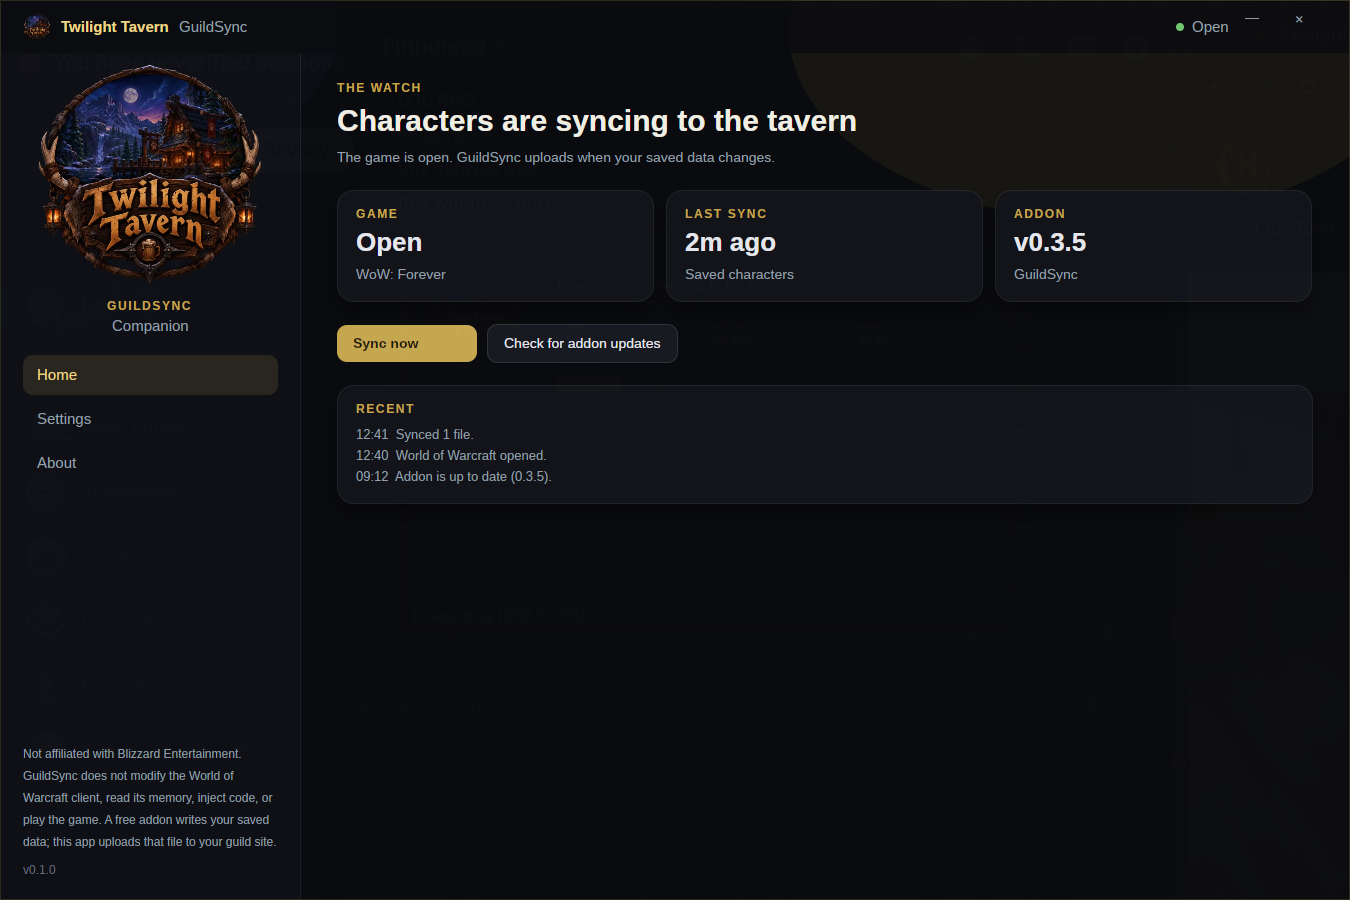
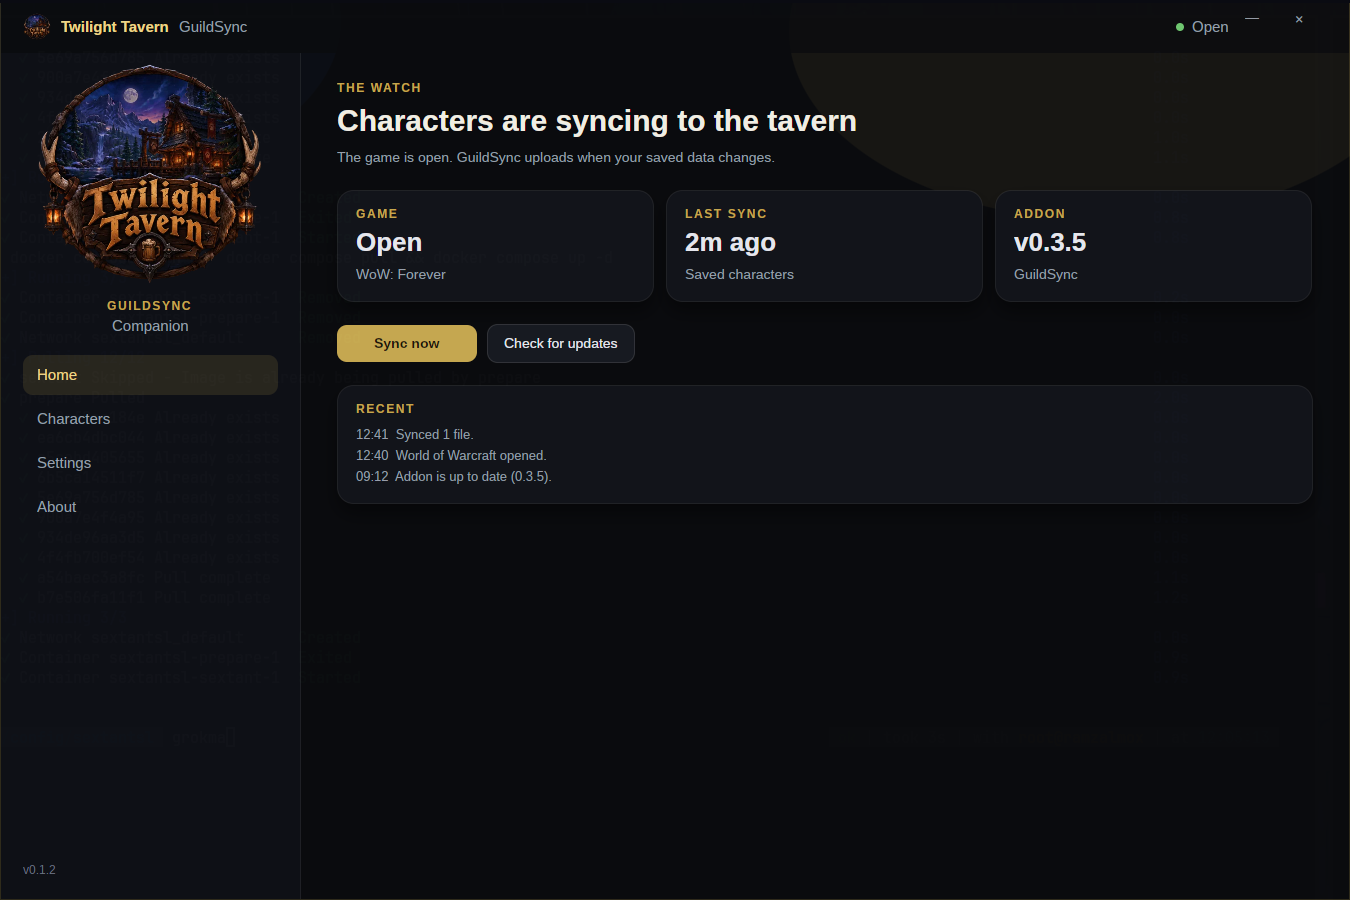
Open character pages from the list

diff --git a/src/GuildSync.Companion/ViewModels/ShellViewModel.cs b/src/GuildSync.Companion/ViewModels/ShellViewModel.cs
@@ -15,7 +15,7 @@ public partial class ShellViewModel : ObservableObject
     private int _toastGen;
     private List<RosterCharacter> _owned = [];
     private string _ownedStatus = "";
-    private int? _previewMainId = 1;
+    private int? _previewMainId = 1560;
 
     public ShellViewModel(CompanionHost host, bool showOnLaunch)
     {
@@ -465,6 +465,13 @@ public partial class ShellViewModel : ObservableObject
     [RelayCommand]
     private void OpenSite() => Dialogs?.OpenUrl(AppConstants.ServerBase);
 
+    private void OpenCharacter(int id)
+    {
+        if (id <= 0)
+            return;
+        Dialogs?.OpenUrl(AppConstants.CharacterPageUrl(id));
+    }
+
     [RelayCommand]
     private void Quit()
     {
@@ -661,9 +668,9 @@ public partial class ShellViewModel : ObservableObject
         var now = DateTimeOffset.UtcNow.ToUnixTimeSeconds();
         _owned =
         [
-            new RosterCharacter("Aldric Hollowbrook", "Paladin", "Retribution", "Dwarf", 56, 49.7, now - 2 * 86400, Id: 1, Player: "You", Dkp: 42),
-            new RosterCharacter("Balgor Steelclaw", "Mage", "Fire", "Dwarf", 54, 42.9, now - 2 * 86400, Id: 2, Player: "You", Dkp: 0),
-            new RosterCharacter("Rukh Jadefire", "Rogue", "Combat", "Orc", 36, 39.4, now - 3600, Id: 3, Player: "You", Dkp: -3),
+            new RosterCharacter("Aldric Hollowbrook", "Paladin", "Retribution", "Dwarf", 56, 49.7, now - 2 * 86400, Id: 1560, Player: "You", Dkp: 42),
+            new RosterCharacter("Balgor Steelclaw", "Mage", "Fire", "Dwarf", 54, 42.9, now - 2 * 86400, Id: 1559, Player: "You", Dkp: 0),
+            new RosterCharacter("Rukh Jadefire", "Rogue", "Combat", "Orc", 36, 39.4, now - 3600, Id: 1562, Player: "You", Dkp: -3),
         ];
         _ownedStatus = "3 of yours, highest level first. Pin the one you main.";
         ShowOwned();
@@ -699,6 +706,7 @@ public partial class ShellViewModel : ObservableObject
                 Dkp = RosterList.FormatDkp(character.Dkp),
                 Seen = RosterList.Ago(character.LastSeenUnix, now),
                 IsMain = main is int pinned && pinned == id,
+                OpenCommand = new RelayCommand(() => OpenCharacter(id)),
                 PinCommand = new RelayCommand(() => PinCharacter(id)),
                 NameBrush = CharacterRow.BrushFor(character.ClassName),
                 DkpBrush = CharacterRow.DkpColor(character.Dkp),

diff --git a/src/GuildSync.Companion/ViewModels/CharacterRow.cs b/src/GuildSync.Companion/ViewModels/CharacterRow.cs
@@ -13,6 +13,7 @@ public sealed class CharacterRow
     public required string Dkp { get; init; }
     public required string Seen { get; init; }
     public required bool IsMain { get; init; }
+    public required ICommand OpenCommand { get; init; }
     public required ICommand PinCommand { get; init; }
     public required IBrush NameBrush { get; init; }
     public required IBrush DkpBrush { get; init; }

diff --git a/src/GuildSync.Core/AppConstants.cs b/src/GuildSync.Core/AppConstants.cs
@@ -8,7 +8,7 @@ namespace GuildSync.Core;
 /// </summary>
 public static class AppConstants
 {
-    public const string Version = "0.1.1";
+    public const string Version = "0.1.2";
     public const string AppName = "GuildSync Companion";
     public const string UserAgent = "GuildSync-Companion-Windows/" + Version;
 

diff --git a/README.md b/README.md
@@ -10,7 +10,7 @@ Same idea as the [Linux tray app](https://forgejo.fifthdread.com/Fifthdread/guil
 
 ## Grab it and go
 
-Download [GuildSyncCompanion-Setup.exe](https://forgejo.fifthdread.com/Ramzal/guildsync-companion-windows/releases/download/v0.1.1/GuildSyncCompanion-Setup.exe) and double-click it.
+Download [GuildSyncCompanion-Setup.exe](https://forgejo.fifthdread.com/Ramzal/guildsync-companion-windows/releases/download/v0.1.2/GuildSyncCompanion-Setup.exe) and double-click it.
 
 1. Click **Install**, then **Finish**. No admin password. It installs just for your Windows account and drops a shortcut on the desktop and in the Start menu.
 2. The app opens. Go to the [upload page](https://twilighttavern.co/upload), log in with Discord, and copy your upload token.
@@ -20,6 +20,8 @@ Download [GuildSyncCompanion-Setup.exe](https://forgejo.fifthdread.com/Ramzal/gu
 
 Close the window whenever you want. It keeps running next to the clock and syncs when you log out. Left-click the icon if you need it again. The menu is Settings, Sync Now, Check for Updates, About, and Quit.
 
+The big crest on the left is the tavern. Click it and the site opens.
+
 Want it gone? Start menu, GuildSync Companion, Uninstall. Or Settings, Apps. Your token stays put, so reinstalling is painless.
 
 ## What it's doing while you play
@@ -27,8 +29,10 @@ Want it gone? Start menu, GuildSync Companion, Uninstall. Or Settings, Apps. You
 - Watches `WTF\Account\*\SavedVariables\GuildSync.lua` and uploads it when it changes.
 - Keeps an eye on things while the game is open. When you log out, one last sync, then it waits.
 - Installs and updates the GuildSync addon from our Forgejo repo, and only inside `Interface\AddOns\GuildSync`.
-- **Check for updates** looks at the addon and the Windows app. It installs a newer addon, and if a newer setup is on Forgejo it downloads that, closes, and comes back on the new version.
-- **Characters** is yours only, matched to the upload token. Name, class, level, item level, DKP, and when they were last seen. Pin the one you main and it stays at the top.
+- **Check for updates** is on Home, in Settings, and in the tray menu. One press checks the addon and the Windows app. A newer addon is installed in place. A newer setup is downloaded from Forgejo, the app closes, installs, and comes back on its own.
+- **Characters** sits under Home. It is only the characters tied to your upload token, not the whole guild. You get the class-colored name, spec, race, level, item level, DKP, and when they were last seen. Click a name to open that character on the site. Pin the one you main and it stays at the top.
+
+![Your characters](docs/characters.png)
 
 ## Building it
 
